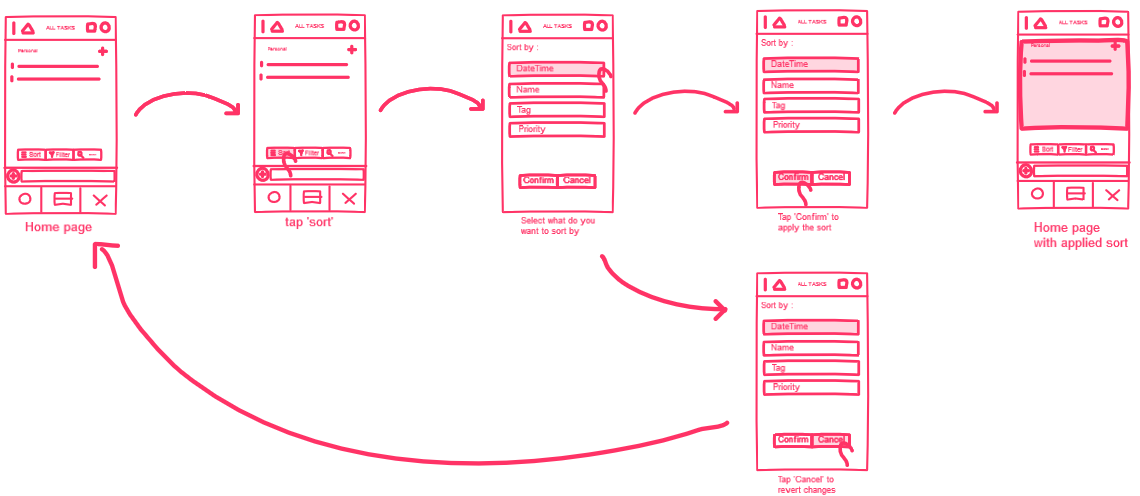
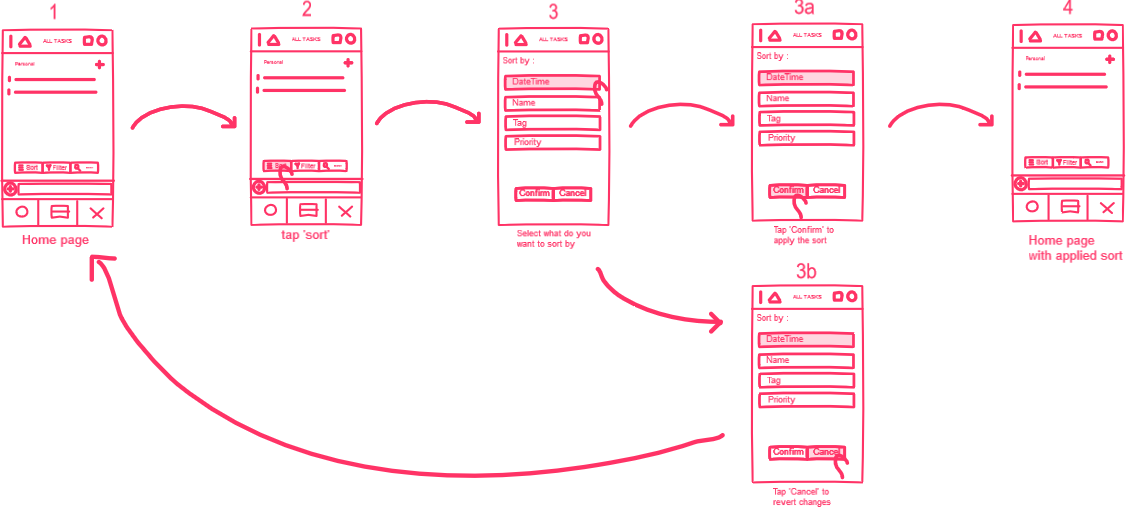
created low & high fidelity prototype

Changed region(s): [[0.0, 0.0, 1.0, 0.6653], [0.3383, 0.5141, 0.7689, 0.998], [0.123, 0.6653, 0.3076, 0.9073]]

diff --git a/README.md b/README.md
@@ -75,7 +75,23 @@ The design chosen based on the contextual inquiry on non-tech savvy users, and a
 ```
 
 ## Part C: Prototypes
-We will work on this part together during the class on **March 21st, 2019**, 10:00 AM - 12.30 PM. Therefore, prior to the class please complete all the above parts (A & B) beforehand accordingly.
+
+### Low Fidelity Prototypes
+
+Link to inVision : https://freehand.invisionapp.com/freehand/document/SnG9E6Mcy
+
 <p align="center">
 	<img src="img/pro1.png"><br><br>
 </p>
+
+<p align="center">
+	<img src="img/pro2.png"><br><br>
+</p>
+
+<p align="center">
+	<img src="img/pro3.png"><br><br>
+</p>
+
+### High Fidelity Prototypes
+
+Link to inVision preview : https://invis.io/5SR8BI0XAHV#/354662965_Hf1
